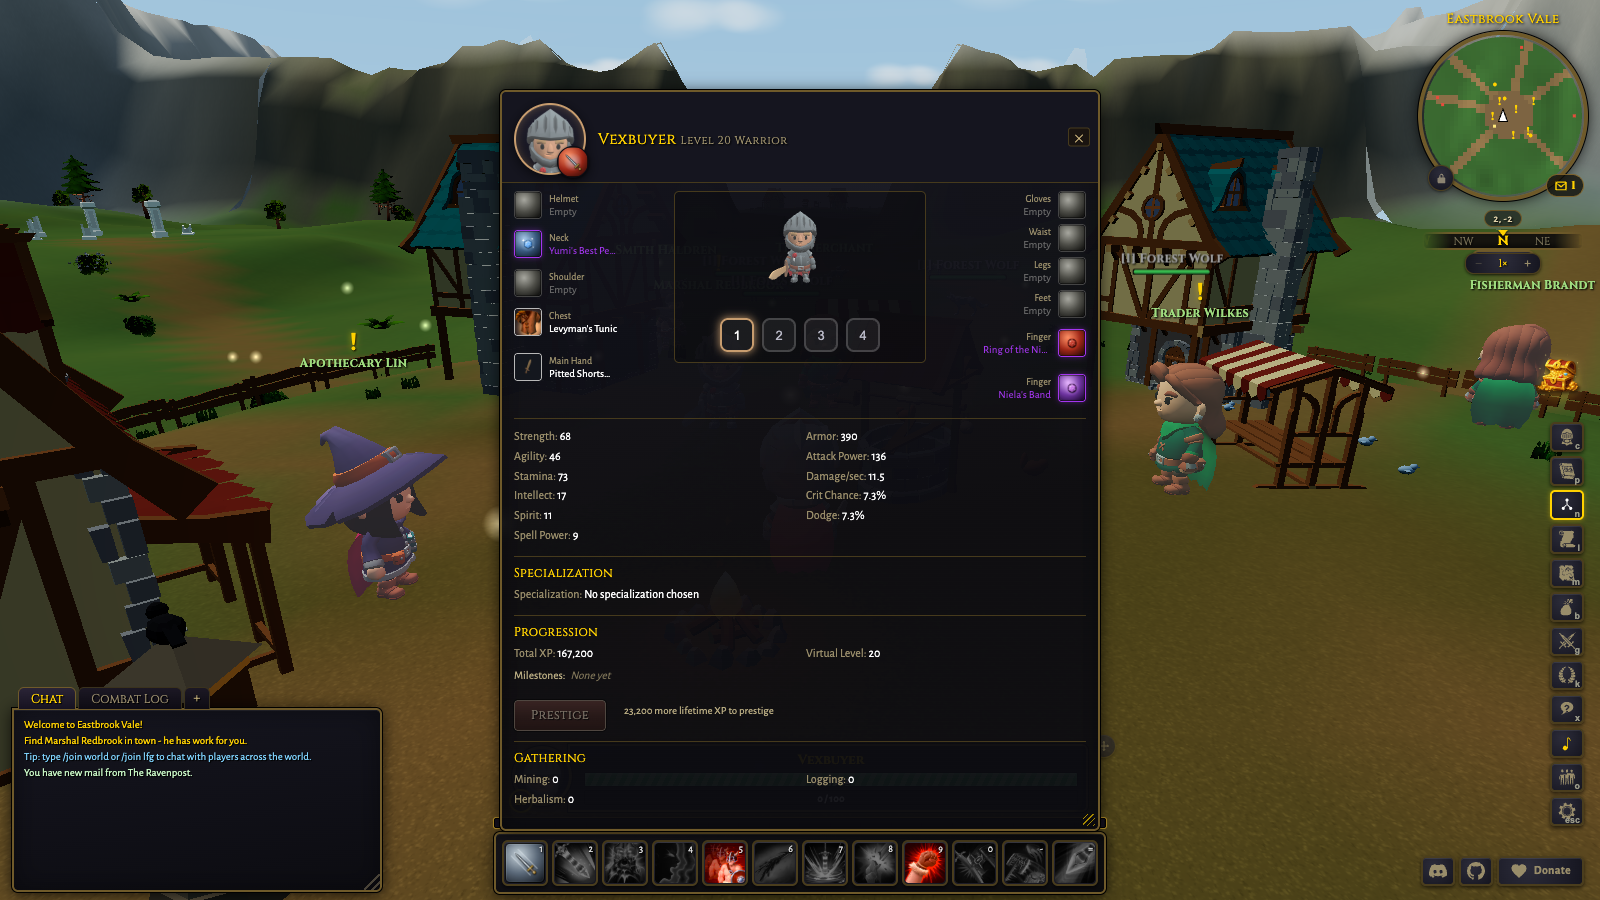
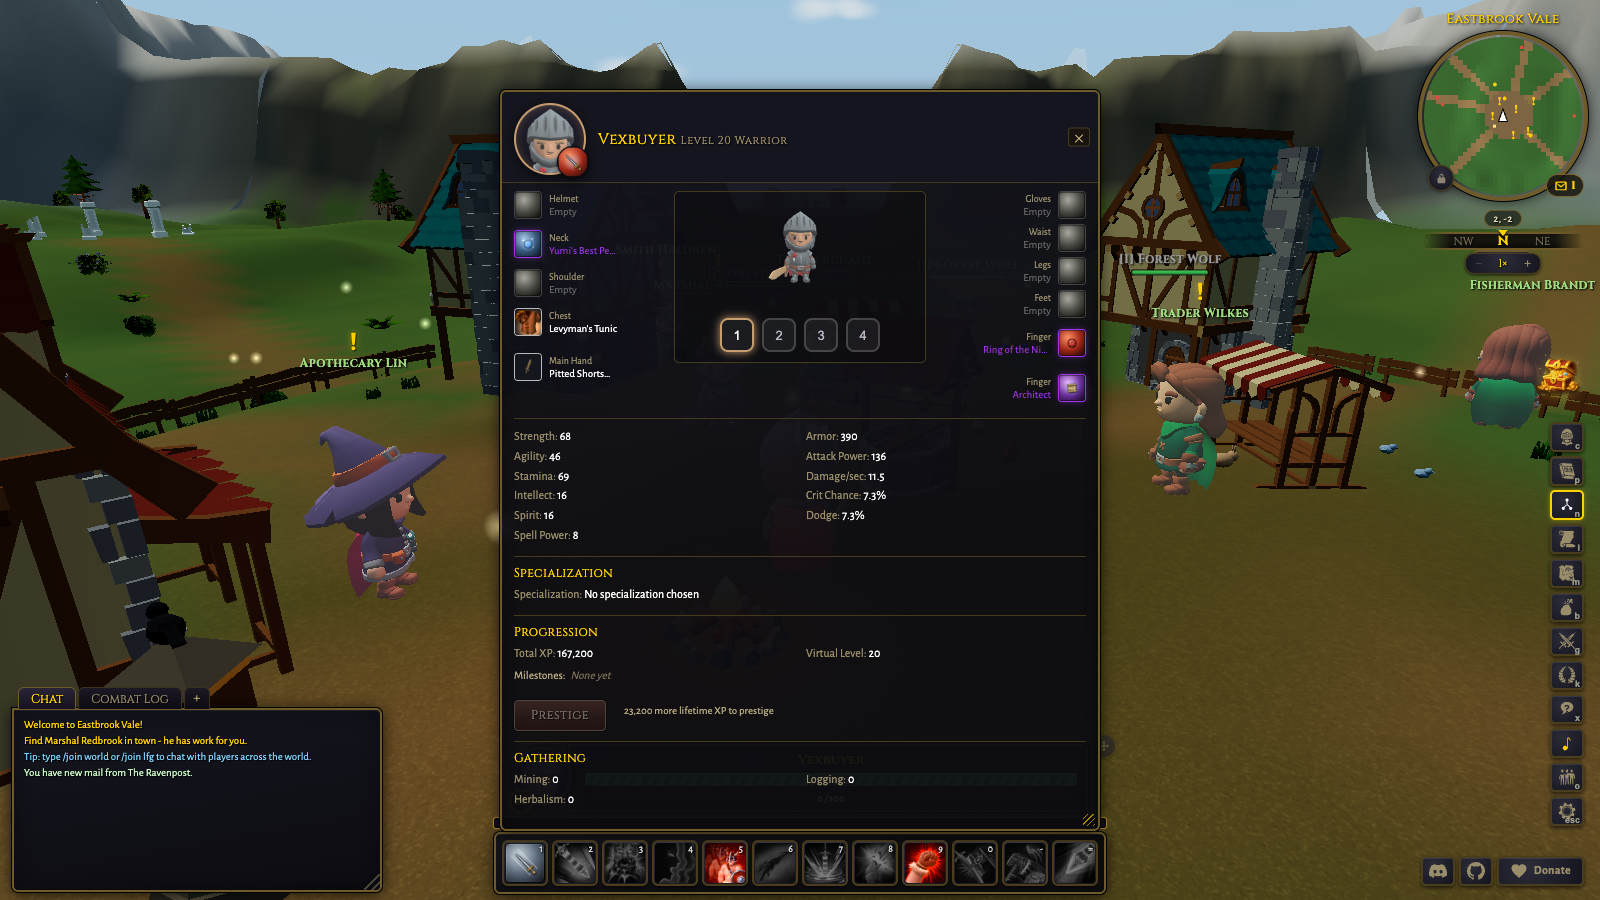
feat(items): add Architect, a sixth heroic-vendor ring (int/spi epic), plus fuller PR proof shots

diff --git a/src/ui/i18n.resolved.generated/pending.ts b/src/ui/i18n.resolved.generated/pending.ts
@@ -10,6 +10,7 @@
 
 export const pending: Record<string, readonly string[]> = {
   "es": [
+    "entities.items.architect.name",
     "entities.items.arthurs_round_band.name",
     "entities.items.heroic_mark.name",
     "entities.items.nielas_band.name",
@@ -29,6 +30,7 @@ export const pending: Record<string, readonly string[]> = {
     "itemUi.slots.ring"
   ],
   "es_ES": [
+    "entities.items.architect.name",
     "entities.items.arthurs_round_band.name",
     "entities.items.heroic_mark.name",
     "entities.items.nielas_band.name",
@@ -48,6 +50,7 @@ export const pending: Record<string, readonly string[]> = {
     "itemUi.slots.ring"
   ],
   "fr_FR": [
+    "entities.items.architect.name",
     "entities.items.arthurs_round_band.name",
     "entities.items.heroic_mark.name",
     "entities.items.nielas_band.name",
@@ -67,6 +70,7 @@ export const pending: Record<string, readonly string[]> = {
     "itemUi.slots.ring"
   ],
   "fr_CA": [
+    "entities.items.architect.name",
     "entities.items.arthurs_round_band.name",
     "entities.items.heroic_mark.name",
     "entities.items.nielas_band.name",
@@ -87,6 +91,7 @@ export const pending: Record<string, readonly string[]> = {
   ],
   "en_CA": [],
   "it_IT": [
+    "entities.items.architect.name",
     "entities.items.arthurs_round_band.name",
     "entities.items.heroic_mark.name",
     "entities.items.nielas_band.name",
@@ -106,6 +111,7 @@ export const pending: Record<string, readonly string[]> = {
     "itemUi.slots.ring"
   ],
   "de_DE": [
+    "entities.items.architect.name",
     "entities.items.arthurs_round_band.name",
     "entities.items.heroic_mark.name",
     "entities.items.nielas_band.name",
@@ -137,6 +143,7 @@ export const pending: Record<string, readonly string[]> = {
     "hudChrome.discord.roleTag.coredevs"
   ],
   "pt_BR": [
+    "entities.items.architect.name",
     "entities.items.arthurs_round_band.name",
     "entities.items.heroic_mark.name",
     "entities.items.nielas_band.name",
@@ -159,6 +166,7 @@ export const pending: Record<string, readonly string[]> = {
     "hudChrome.discord.roleTag.coredevs"
   ],
   "cs_CZ": [
+    "entities.items.architect.name",
     "entities.items.arthurs_round_band.name",
     "entities.items.heroic_mark.name",
     "entities.items.nielas_band.name",
@@ -178,6 +186,7 @@ export const pending: Record<string, readonly string[]> = {
     "itemUi.slots.ring"
   ],
   "nl_NL": [
+    "entities.items.architect.name",
     "entities.items.arthurs_round_band.name",
     "entities.items.heroic_mark.name",
     "entities.items.nielas_band.name",
@@ -197,6 +206,7 @@ export const pending: Record<string, readonly string[]> = {
     "itemUi.slots.ring"
   ],
   "pl_PL": [
+    "entities.items.architect.name",
     "entities.items.arthurs_round_band.name",
     "entities.items.heroic_mark.name",
     "entities.items.nielas_band.name",
@@ -216,6 +226,7 @@ export const pending: Record<string, readonly string[]> = {
     "itemUi.slots.ring"
   ],
   "id_ID": [
+    "entities.items.architect.name",
     "entities.items.arthurs_round_band.name",
     "entities.items.heroic_mark.name",
     "entities.items.nielas_band.name",
@@ -235,6 +246,7 @@ export const pending: Record<string, readonly string[]> = {
     "itemUi.slots.ring"
   ],
   "tr_TR": [
+    "entities.items.architect.name",
     "entities.items.arthurs_round_band.name",
     "entities.items.heroic_mark.name",
     "entities.items.nielas_band.name",
@@ -254,6 +266,7 @@ export const pending: Record<string, readonly string[]> = {
     "itemUi.slots.ring"
   ],
   "sv_SE": [
+    "entities.items.architect.name",
     "entities.items.arthurs_round_band.name",
     "entities.items.heroic_mark.name",
     "entities.items.nielas_band.name",
@@ -273,6 +286,7 @@ export const pending: Record<string, readonly string[]> = {
     "itemUi.slots.ring"
   ],
   "vi_VN": [
+    "entities.items.architect.name",
     "entities.items.arthurs_round_band.name",
     "entities.items.heroic_mark.name",
     "entities.items.nielas_band.name",
@@ -292,6 +306,7 @@ export const pending: Record<string, readonly string[]> = {
     "itemUi.slots.ring"
   ],
   "da_DK": [
+    "entities.items.architect.name",
     "entities.items.arthurs_round_band.name",
     "entities.items.heroic_mark.name",
     "entities.items.nielas_band.name",

diff --git a/src/sim/content/heroic_vendor.ts b/src/sim/content/heroic_vendor.ts
@@ -72,6 +72,16 @@ export const HEROIC_VENDOR_ITEMS: Record<string, ItemDef> = {
     stats: { spi: 6, int: 5 },
     sellValue: 4500,
   },
+  architect: {
+    id: 'architect',
+    name: 'Architect',
+    kind: 'armor',
+    slot: 'ring',
+    quality: 'epic',
+    requiredLevel: 20,
+    stats: { int: 6, spi: 5 },
+    sellValue: 4500,
+  },
   yumis_best_pendant: {
     id: 'yumis_best_pendant',
     name: "Yumi's Best Pendant",
@@ -110,6 +120,7 @@ export const HEROIC_VENDOR_STOCK: readonly HeroicVendorOffer[] = [
   { itemId: 'sutils_fortune', marks: 12 },
   { itemId: 'arthurs_round_band', marks: 12 },
   { itemId: 'signet_of_zyzz', marks: 12 },
+  { itemId: 'architect', marks: 12 },
   { itemId: 'yumis_best_pendant', marks: 16 },
   { itemId: 'zense_meridian', marks: 16 },
   { itemId: 'pendant_of_endless_profit', marks: 16 },

diff --git a/src/ui/i18n.locales/ru_RU.ts b/src/ui/i18n.locales/ru_RU.ts
@@ -3211,6 +3211,7 @@ export const ru_RU: Partial<Record<TranslationKey, string>> = {
   'entities.items.sutils_fortune.name': 'Удача Сутила',
   'entities.items.arthurs_round_band.name': 'Круглое кольцо Артура',
   'entities.items.signet_of_zyzz.name': 'Печатка Зизза',
+  'entities.items.architect.name': 'Архитектор',
   'entities.items.yumis_best_pendant.name': 'Лучший кулон Юми',
   'entities.items.zense_meridian.name': 'Меридиан Зенсе',
   'entities.items.pendant_of_endless_profit.name': 'Кулон бесконечной прибыли',

diff --git a/src/ui/icons.ts b/src/ui/icons.ts
@@ -2636,6 +2636,7 @@ const ITEM_RECIPES: Record<string, IconRecipe> = {
   sutils_fortune: r('nature', 'leafGreen', ['coin', 'gem'], ['sparkle']),
   arthurs_round_band: r('earth', 'earthBrown', ['coin', 'gem'], ['glow']),
   signet_of_zyzz: r('holy', 'holyGold', ['coin', 'sigil_rune'], ['glow']),
+  architect: r('arcane', 'sky', ['coin', 'scroll'], ['glow']),
   yumis_best_pendant: r('storm', 'sky', ['gem'], ['sparkle', 'glow']),
   zense_meridian: r('arcane', 'arcanePink', ['moon', 'gem'], ['glow']),
   pendant_of_endless_profit: r('treasure', 'gold', ['coin', 'sunburst'], ['sparkle']),

diff --git a/src/ui/i18n.locales/ja_JP.ts b/src/ui/i18n.locales/ja_JP.ts
@@ -3181,6 +3181,7 @@ export const ja_JP: Partial<Record<TranslationKey, string>> = {
   'entities.items.sutils_fortune.name': 'スティルの幸運',
   'entities.items.arthurs_round_band.name': 'アーサーの丸き指輪',
   'entities.items.signet_of_zyzz.name': 'ジズの印章指輪',
+  'entities.items.architect.name': 'アーキテクト',
   'entities.items.yumis_best_pendant.name': 'ユミの一番のペンダント',
   'entities.items.zense_meridian.name': 'ゼンセの子午線',
   'entities.items.pendant_of_endless_profit.name': '無限の利益のペンダント',

diff --git a/src/ui/i18n.locales/ko_KR.ts b/src/ui/i18n.locales/ko_KR.ts
@@ -3176,6 +3176,7 @@ export const ko_KR: Partial<Record<TranslationKey, string>> = {
   'entities.items.sutils_fortune.name': '수틸의 행운',
   'entities.items.arthurs_round_band.name': '아서의 둥근 반지',
   'entities.items.signet_of_zyzz.name': '지즈의 인장',
+  'entities.items.architect.name': '건축가',
   'entities.items.yumis_best_pendant.name': '유미의 소중한 펜던트',
   'entities.items.zense_meridian.name': '젠세의 자오선',
   'entities.items.pendant_of_endless_profit.name': '끝없는 이득의 펜던트',

diff --git a/src/ui/i18n.locales/zh_CN.ts b/src/ui/i18n.locales/zh_CN.ts
@@ -3041,6 +3041,7 @@ export const zh_CN: Partial<Record<TranslationKey, string>> = {
   'entities.items.sutils_fortune.name': '苏蒂尔的财运',
   'entities.items.arthurs_round_band.name': '亚瑟的圆环',
   'entities.items.signet_of_zyzz.name': '兹兹的印戒',
+  'entities.items.architect.name': '建筑师',
   'entities.items.yumis_best_pendant.name': '由美的至爱吊坠',
   'entities.items.zense_meridian.name': '泽恩斯子午坠',
   'entities.items.pendant_of_endless_profit.name': '无尽利润吊坠',

diff --git a/src/ui/i18n.locales/zh_TW.ts b/src/ui/i18n.locales/zh_TW.ts
@@ -3043,6 +3043,7 @@ export const zh_TW: Partial<Record<TranslationKey, string>> = {
   'entities.items.sutils_fortune.name': '蘇蒂爾的財運',
   'entities.items.arthurs_round_band.name': '亞瑟的圓環',
   'entities.items.signet_of_zyzz.name': '茲茲的印戒',
+  'entities.items.architect.name': '建築師',
   'entities.items.yumis_best_pendant.name': '由美的至愛吊墜',
   'entities.items.zense_meridian.name': '澤恩斯子午墜',
   'entities.items.pendant_of_endless_profit.name': '無盡利潤吊墜',

diff --git a/tests/heroic_vendor.test.ts b/tests/heroic_vendor.test.ts
@@ -38,7 +38,7 @@ function errorTexts(sim: AnySim): string[] {
 
 describe('heroic vendor stock: item-level and budget pins', () => {
   it('every offer is a real epic level-20 jewelry item at item level 26', () => {
-    expect(HEROIC_VENDOR_STOCK.length).toBe(8);
+    expect(HEROIC_VENDOR_STOCK.length).toBe(9);
     for (const offer of HEROIC_VENDOR_STOCK) {
       const item = ITEMS[offer.itemId];
       expect(item, offer.itemId).toBeTruthy();

diff --git a/src/ui/i18n.catalog/index.ts b/src/ui/i18n.catalog/index.ts
@@ -1032,6 +1032,7 @@ export const en = {
       sutils_fortune: { name: "Sutil's Fortune" },
       arthurs_round_band: { name: "Arthur's Round Band" },
       signet_of_zyzz: { name: 'Signet of Zyzz' },
+      architect: { name: 'Architect' },
       yumis_best_pendant: { name: "Yumi's Best Pendant" },
       zense_meridian: { name: 'Zense Meridian' },
       pendant_of_endless_profit: { name: 'Pendant of Endless Profit' },

diff --git a/src/ui/i18n.resolved.generated/en_XA.ts b/src/ui/i18n.resolved.generated/en_XA.ts
@@ -6356,6 +6356,9 @@ export const en_XA: EnTranslations = {
       "signet_of_zyzz": {
         "name": "[Šíĝñéţ óƒ Žýžž]"
       },
+      "architect": {
+        "name": "[Áŕçĥíţéçţ]"
+      },
       "yumis_best_pendant": {
         "name": "[Ýúɱí'š Ɓéšţ Þéñðáñţ]"
       },

diff --git a/src/ui/i18n.resolved.generated/ru_RU.ts b/src/ui/i18n.resolved.generated/ru_RU.ts
@@ -6356,6 +6356,9 @@ export const ru_RU: EnTranslations = {
       "signet_of_zyzz": {
         "name": "Печатка Зизза"
       },
+      "architect": {
+        "name": "Архитектор"
+      },
       "yumis_best_pendant": {
         "name": "Лучший кулон Юми"
       },
